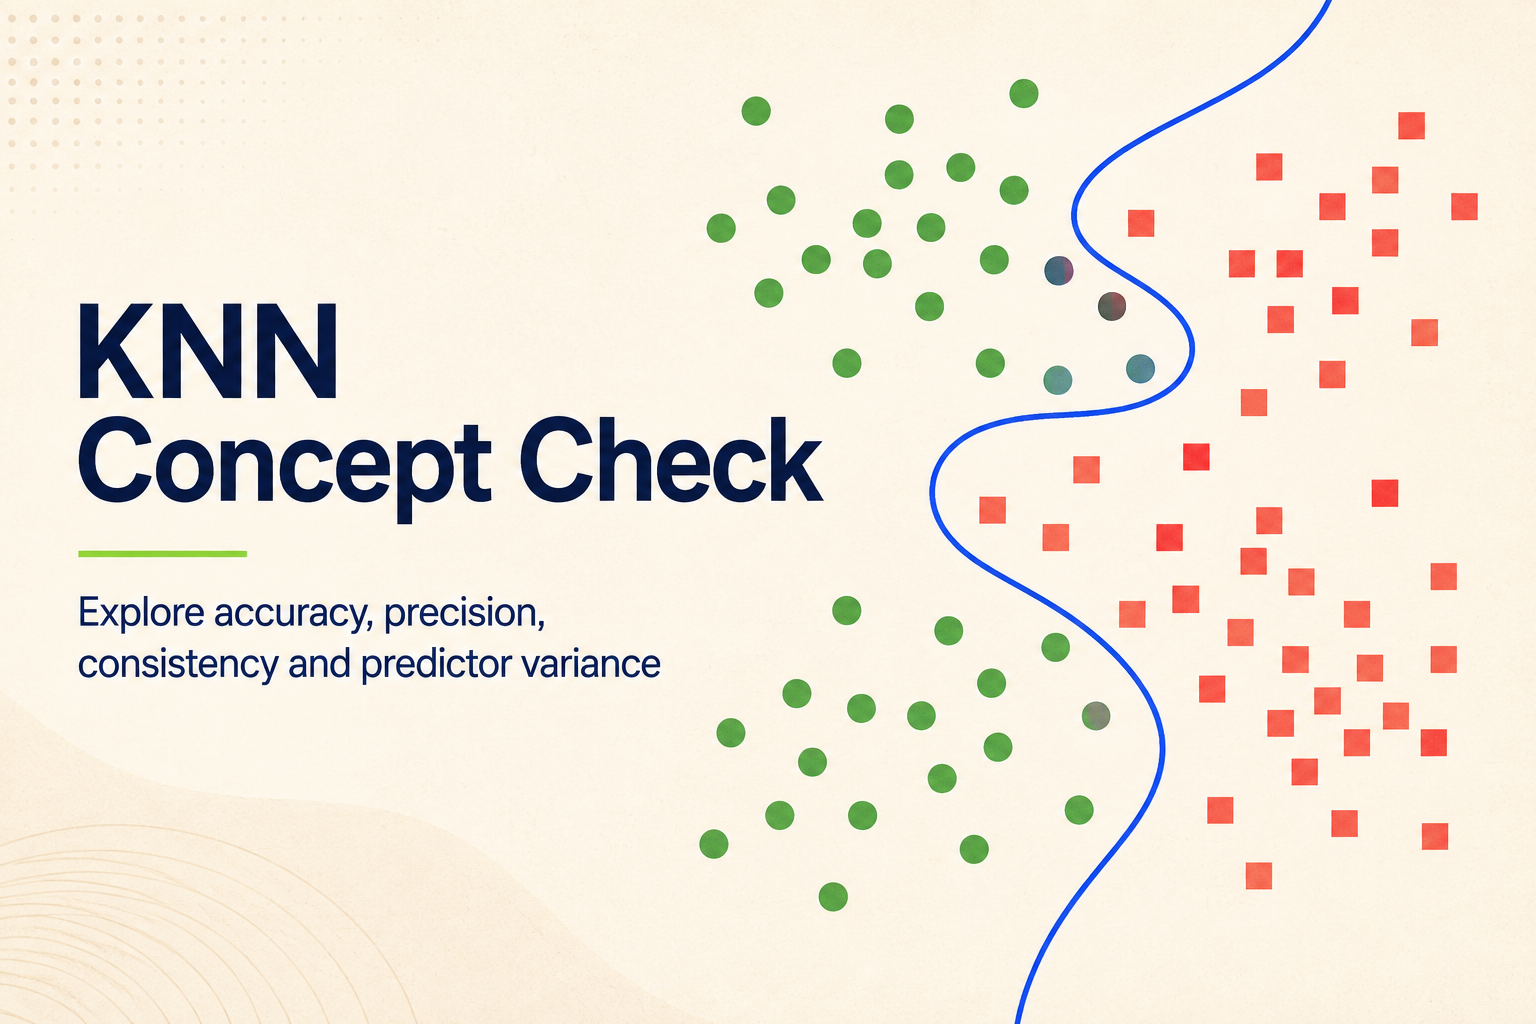
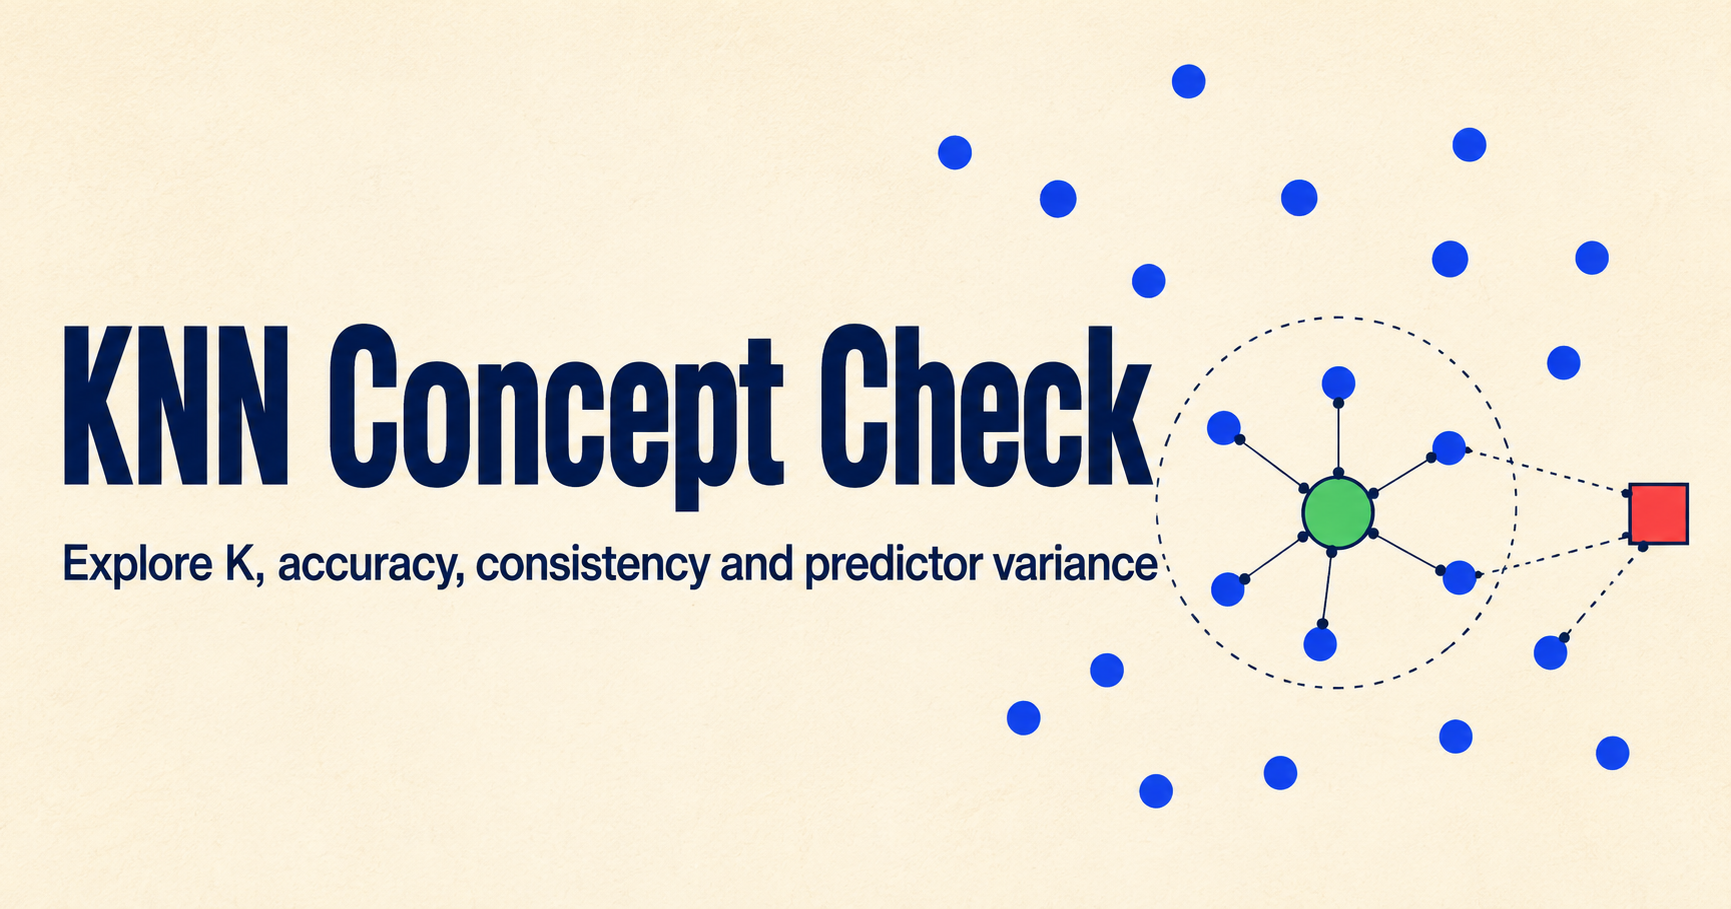
Remove precision and recall from introductory quiz

diff --git a/app/page.tsx b/app/page.tsx
@@ -14,15 +14,15 @@ type Question = {
 };
 
 const questions: Question[] = [
-  { category: "K and the boundary", visual: "boundary", prompt: "What usually happens when K is reduced from 15 to 1?", options: ["The boundary becomes smoother and predictor variance decreases", "The boundary becomes more irregular and predictor variance increases", "The training data no longer influence the prediction", "Precision and accuracy must both increase"], answer: 1, explanation: "With K = 1, each prediction follows one nearby sample. Small changes in the training set can therefore move the boundary substantially: this is high predictor variance.", experiment: "Keep the data fixed and compare K = 1 with K = 15. Then resample several times." },
-  { category: "Class overlap", visual: "overlap", prompt: "In the demo, you move the two Gaussian means closer together. What should you expect to observe?", options: ["More overlap and usually lower test accuracy", "Less overlap and always perfect precision", "No change because KNN ignores feature values", "A guaranteed increase in both classes' accuracy"], answer: 0, explanation: "Moving the means closer makes green and red points overlap more. The plot and confusion matrix then normally show more classification errors.", experiment: "Move the green and red means toward each other while leaving K and the covariances unchanged." },
+  { category: "K and the boundary", visual: "boundary", prompt: "What usually happens when K is reduced from 15 to 1?", options: ["The boundary becomes smoother and predictor variance decreases", "The boundary becomes more irregular and predictor variance increases", "The training data no longer influence the prediction", "Test accuracy must always increase"], answer: 1, explanation: "With K = 1, each prediction follows one nearby sample. Small changes in the training set can therefore move the boundary substantially: this is high predictor variance.", experiment: "Keep the data fixed and compare K = 1 with K = 15. Then resample several times." },
+  { category: "Class overlap", visual: "overlap", prompt: "In the demo, you move the two Gaussian means closer together. What should you expect to observe?", options: ["More overlap and usually lower test accuracy", "Less overlap and always perfect accuracy", "No change because KNN ignores feature values", "A guaranteed increase in both classes' accuracy"], answer: 0, explanation: "Moving the means closer makes green and red points overlap more. The plot and confusion matrix then normally show more classification errors.", experiment: "Move the green and red means toward each other while leaving K and the covariances unchanged." },
   { category: "Sample size", visual: "samples", prompt: "At fixed distributions and K, what is the usual effect of collecting more training points?", options: ["The fitted boundary tends to become more stable across resamples", "The classifier becomes independent of K", "Test accuracy must become exactly 100%", "Predictor variance must increase"], answer: 0, explanation: "A larger training sample gives a more reliable picture of the local class probabilities. The boundary generally varies less from one random sample to another.", experiment: "Compare repeated samples with 20 points per class and 200 points per class." },
-  { category: "Precision", visual: "matrix", prompt: "Green is the positive class. If TP = 18 and FP = 6, what is green-class precision?", options: ["18 / (18 + 6) = 75%", "18 / (18 + 6) = 25%", "18 / (18 + FN)", "6 / (18 + 6) = 75%"], answer: 0, explanation: "Precision asks: among points predicted green, what fraction truly are green? Therefore precision = TP / (TP + FP) = 18 / 24 = 75%.", experiment: "Watch how TP and FP change when K changes, then recompute precision from the confusion matrix." },
-  { category: "Class imbalance", visual: "imbalance", prompt: "A dataset has 95 red and 5 green test points. A classifier predicts every point as red. Which statement is best?", options: ["95% accuracy proves it is an excellent classifier", "It has high accuracy but completely fails to detect the green class", "Its green precision is 95%", "Its confusion matrix is unnecessary"], answer: 1, explanation: "Accuracy can hide failure on a rare class. The confusion matrix and class-specific precision and recall reveal what the single percentage conceals.", experiment: "Use very different class sizes and inspect accuracy together with every confusion-matrix cell." },
+  { category: "Accuracy", visual: "matrix", prompt: "The confusion matrix shows 15 correctly classified green points and 17 correctly classified red points, out of 40 test points. What is the test accuracy?", options: ["32 / 40 = 80%", "15 / 40 = 37.5%", "17 / 40 = 42.5%", "8 / 40 = 20%"], answer: 0, explanation: "Accuracy is the fraction of all test points classified correctly. Here, 15 + 17 = 32 points are correct, so accuracy is 32 / 40 = 80%.", experiment: "Add the two diagonal cells of the confusion matrix and divide by the total number of test points." },
+  { category: "Class imbalance", visual: "imbalance", prompt: "A dataset has 95 red and 5 green test points. A classifier predicts every point as red. Which statement is best?", options: ["95% accuracy proves it is an excellent classifier", "It has high overall accuracy but classifies every green point incorrectly", "It correctly classifies all 100 points", "Its confusion matrix is unnecessary"], answer: 1, explanation: "Overall accuracy can hide complete failure on the smaller class. Looking at the four confusion-matrix cells shows which class contains the errors.", experiment: "Use very different class sizes and inspect accuracy together with every confusion-matrix cell." },
   { category: "Train / test split", visual: "split", prompt: "With the total number of points fixed, what do you see when the test fraction rises from 20% to 50%?", options: ["Both training and test sets become larger", "More empty test markers and fewer solid training markers", "K automatically increases", "Every test point becomes correctly classified"], answer: 1, explanation: "The demo draws training points as solid markers and test points as outlines. Raising the test fraction transfers points from the training set to the test set.", experiment: "Hold the total point count fixed and compare the solid and outlined markers at 20% and 50%." },
   { category: "Distance weighting", visual: "weighted", prompt: "For K = 7, four green neighbours are far away and three red neighbours are extremely close. What may inverse-distance voting do?", options: ["It must predict green because four is larger than three", "It may predict red because close neighbours receive more weight", "It ignores all seven neighbours", "It produces the same result as majority voting in every case"], answer: 1, explanation: "Uniform voting counts neighbours equally. Inverse-distance voting can let a smaller group of very close neighbours outweigh a larger group of distant ones.", experiment: "Place a query near three red points but inside a wider group of four green points, then toggle voting mode." },
   { category: "Consistency", visual: "consistency", prompt: "Which observation from repeated demo experiments is evidence that the KNN estimate is becoming more consistent?", options: ["Every finite sample produces exactly the same boundary", "As the sample grows, repeated resamples tend to produce more similar boundaries and performance", "Training accuracy is always 100%", "The selected K never changes"], answer: 1, explanation: "The lecture idea of consistency concerns what happens as more data become available. In the demo, increasingly similar results across large resamples are the visible evidence students should look for.", experiment: "Increase the sample size in stages and compare the boundaries and accuracy after several resamples." },
-  { category: "Predictor variance", visual: "resampling", prompt: "Repeatedly resampling a small dataset makes the K = 1 boundary move widely. What does this demonstrate?", options: ["High predictor variance", "Low predictor variance", "High precision by definition", "Zero irreducible error"], answer: 0, explanation: "Predictor variance measures sensitivity to the particular training sample. Large boundary changes under resampling are direct visual evidence of high variance.", experiment: "Set K = 1, resample repeatedly, then increase K and compare how much the boundary moves." },
+  { category: "Predictor variance", visual: "resampling", prompt: "Repeatedly resampling a small dataset makes the K = 1 boundary move widely. What does this demonstrate?", options: ["High predictor variance", "Low predictor variance", "Perfect test accuracy", "No influence from the training sample"], answer: 0, explanation: "Predictor variance measures sensitivity to the particular training sample. Large boundary changes under resampling are direct visual evidence of high variance.", experiment: "Set K = 1, resample repeatedly, then increase K and compare how much the boundary moves." },
   { category: "Choosing K", visual: "tradeoff", prompt: "The accuracy-versus-K plot rises and then falls. What does the falling part suggest?", options: ["Very large K can oversmooth the class structure and reduce test accuracy", "Distance calculations have stopped", "The test points have become training points", "Accuracy must increase again if K is even"], answer: 0, explanation: "The demo shows that using more neighbours is not always better. A very large neighbourhood can mix points from different regions and lose useful local structure.", experiment: "Click several odd K values in the accuracy plot and compare both the boundary and test accuracy." },
 ];
 
@@ -30,7 +30,7 @@ function MiniVisual({ type }: { type: Question["visual"] }) {
   const dots = [[32,36],[54,62],[78,43],[112,72],[148,48],[179,75],[205,39]];
   return <svg className="mini-visual" viewBox="0 0 240 112" aria-label={`${type} concept illustration`}>
     <rect width="240" height="112" rx="12" fill="#f2efe7" />
-    {type === "matrix" ? <><text x="78" y="25">Predicted</text><rect x="53" y="35" width="64" height="30" fill="#ccebdd"/><rect x="119" y="35" width="64" height="30" fill="#f4d5d1"/><rect x="53" y="67" width="64" height="30" fill="#f4d5d1"/><rect x="119" y="67" width="64" height="30" fill="#ccebdd"/><text x="78" y="55">TP 18</text><text x="140" y="55">FP 6</text><text x="78" y="87">FN</text><text x="140" y="87">TN</text></> :
+    {type === "matrix" ? <><text x="78" y="25">Predicted</text><rect x="53" y="35" width="64" height="30" fill="#ccebdd"/><rect x="119" y="35" width="64" height="30" fill="#f4d5d1"/><rect x="53" y="67" width="64" height="30" fill="#f4d5d1"/><rect x="119" y="67" width="64" height="30" fill="#ccebdd"/><text x="78" y="55">15 correct</text><text x="140" y="55">4 errors</text><text x="78" y="87">4 errors</text><text x="140" y="87">17 correct</text></> :
     type === "tradeoff" ? <><path d="M22 91 C55 20 90 18 121 72 C150 112 191 76 218 25" fill="none" stroke="#315fc7" strokeWidth="4"/><text x="18" y="24">error</text><text x="179" y="103">K →</text></> :
     type === "split" ? <><rect x="20" y="27" width="120" height="58" rx="8" fill="#315fc7"/><rect x="143" y="27" width="77" height="58" rx="8" fill="#d8f154"/><text x="56" y="61" fill="white">TRAIN</text><text x="161" y="61">TEST</text></> :
     type === "consistency" || type === "resampling" ? <><path d="M14 84 C50 27 75 97 113 45 S176 70 226 28" fill="none" stroke="#cf4d45" strokeWidth="2" opacity=".55"/><path d="M14 74 C51 38 77 85 112 49 S174 65 226 34" fill="none" stroke="#178464" strokeWidth="2" opacity=".65"/><path d="M14 66 C50 46 80 76 113 52 S180 58 226 39" fill="none" stroke="#315fc7" strokeWidth="3"/></> :

diff --git a/app/layout.tsx b/app/layout.tsx
@@ -17,7 +17,7 @@ export const metadata: Metadata = {
   description: 'An interactive formative quiz about K-nearest neighbours, model performance, consistency, and predictor variance.',
   openGraph: {
     title: 'KNN Concept Check',
-    description: 'Explore accuracy, precision, consistency and predictor variance.',
+    description: 'Explore K, accuracy, consistency and predictor variance.',
     url: 'https://alexbernardino.github.io/knn-quiz/',
     type: 'website',
     images: [{ url: 'https://alexbernardino.github.io/knn-quiz/og.png', width: 1536, height: 1024 }],
@@ -25,7 +25,7 @@ export const metadata: Metadata = {
   twitter: {
     card: 'summary_large_image',
     title: 'KNN Concept Check',
-    description: 'Explore accuracy, precision, consistency and predictor variance.',
+    description: 'Explore K, accuracy, consistency and predictor variance.',
     images: ['https://alexbernardino.github.io/knn-quiz/og.png'],
   },
 };

diff --git a/README.md b/README.md
@@ -1,6 +1,6 @@
 # KNN Concept Check
 
-An interactive, formative quiz that accompanies [KNN Interactive](https://alexbernardino.github.io/knn-interactive/). Ten questions give immediate feedback about neighbourhood size, class overlap, accuracy, precision, distance weighting, consistency, and predictor variance.
+An interactive, formative quiz that accompanies [KNN Interactive](https://alexbernardino.github.io/knn-interactive/). Ten questions give immediate feedback about neighbourhood size, class overlap, accuracy, distance weighting, consistency, and predictor variance.
 
 ## Test locally
 
